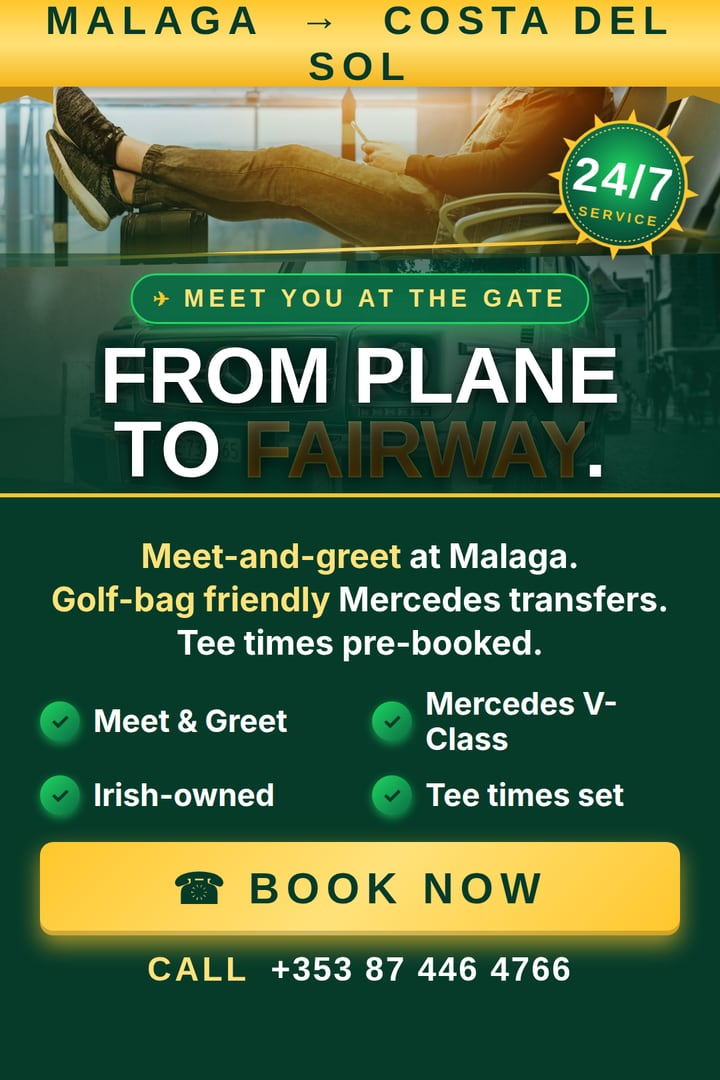
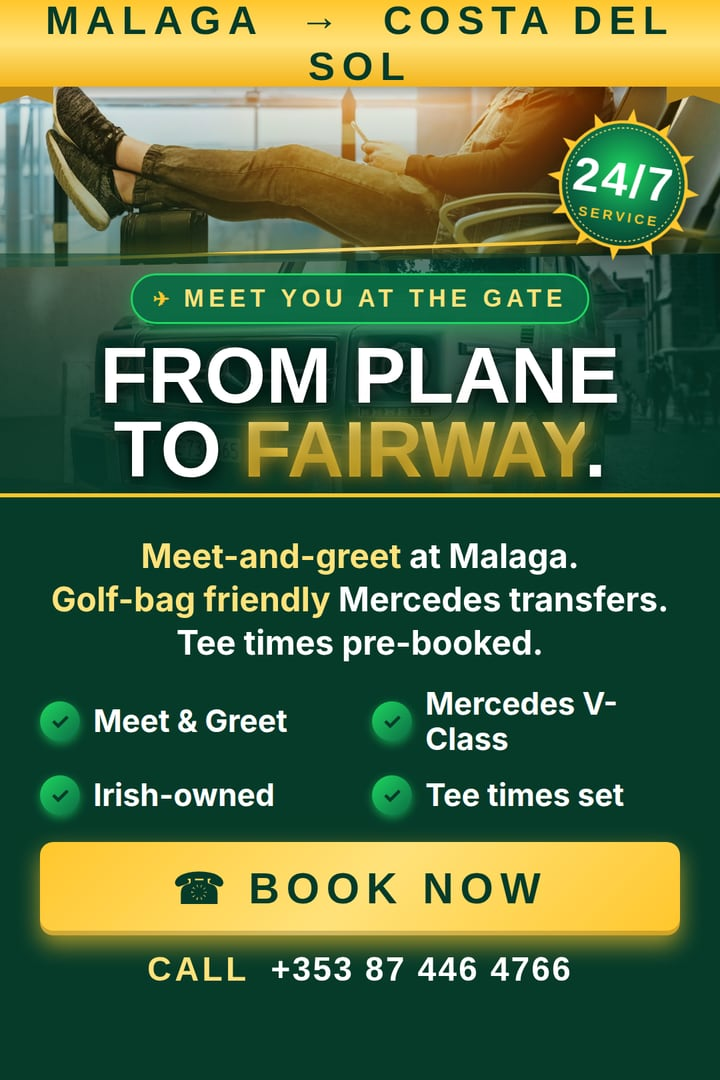
feat(brand+hero): centre crest on mobile, brighten FAIRWAY in hero
Mobile navbar layout
- Brand lockup is now centred on mobile (mx-auto on the anchor); the
  hamburger floats absolutely on the right edge so the crest sits in
  the visual centre of the bar rather than left-aligned.
- Desktop (lg+) layout untouched: brand on the left, full nav + Get
  Quote button on the right via the existing flex justify-between.

Hero compositions — brighter, more prominent FAIRWAY
- Mobile portrait + desktop landscape both re-rendered with a brighter
  gold gradient (#FFF1A8 -> #FFE27A -> #FFD43A -> #FFC72C) instead of
  the previous gradient that bottomed out near #7a4f10 / #d97706.
- Removed the dark inner text-stroke that was making the word fade out
  against the V-Class grille.
- Added a layered glow halo (24/48 px gold + 8 px dark drop shadow)
  so the word visibly glows whatever sits behind it.
- All public/images/hero-malaga-transfers* webp/jpg variants regenerated
  via sharp at 720/1080/1600/2200 widths.

Verified at 390x844 (mobile) and 1280x800 (desktop): crest centred and
prominent on mobile, FAIRWAY now reads as bright sunlit gold on both
viewports without losing legibility against the grille.

Changed region(s): [[0.3056, 0.3667, 0.825, 0.4583]]

diff --git a/src/pages/golf-experience/sections/ge-navbar.tsx b/src/pages/golf-experience/sections/ge-navbar.tsx
@@ -44,16 +44,19 @@ export function GeNavbar({ mode: _mode = 'auto' }: GeNavbarProps = {}) {
       {isOverlay ? <GeTopBar /> : null}
       <div
         className={cx(
-          'mx-auto flex max-w-[1340px] items-center justify-between gap-4 px-4 transition-all duration-300 sm:px-5',
-          // Tight vertical padding lets the larger crest dominate the bar
-          // without inflating header height further.
+          // Mobile (< lg): relative wrapper so the brand can centre via
+          //   mx-auto while the hamburger floats absolutely on the right.
+          // Desktop (lg+): standard flex row with brand on the left and
+          //   the full nav menu on the right.
+          'relative mx-auto flex max-w-[1340px] items-center px-4 transition-all duration-300 sm:px-5',
+          'lg:justify-between lg:gap-4',
           isOverlay ? 'py-4' : 'py-1.5 lg:py-1'
         )}
       >
         <a
           href="#top"
           aria-label="GolfSol Ireland home"
-          className="flex shrink-0 items-center transition-transform duration-300"
+          className="mx-auto flex shrink-0 items-center transition-transform duration-300 lg:mx-0"
         >
           <GeBrandLockup tone={isOverlay ? 'on-dark' : 'on-light'} mode={isOverlay ? 'overlay' : 'sticky'} />
         </a>
@@ -73,7 +76,9 @@ export function GeNavbar({ mode: _mode = 'auto' }: GeNavbarProps = {}) {
           aria-expanded={isMenuOpen}
           aria-controls="ge-mobile-menu"
           className={cx(
-            'inline-flex h-11 w-11 items-center justify-center rounded-full border-2 transition-colors lg:hidden',
+            // Absolute on mobile so the brand can be perfectly centred;
+            // hidden entirely on lg+ where the full nav takes over.
+            'absolute right-4 top-1/2 inline-flex h-11 w-11 -translate-y-1/2 items-center justify-center rounded-full border-2 transition-colors sm:right-5 lg:hidden',
             isOverlay
               ? 'border-white/60 text-white hover:border-white hover:bg-white/15'
               : 'border-ge-gray200 text-gs-dark hover:border-gs-green hover:text-gs-green'
